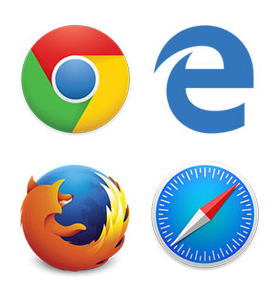
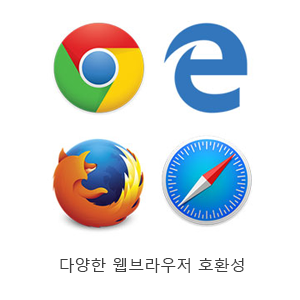
수정

diff --git a/business/ipes.html b/business/ipes.html
@@ -9,27 +9,49 @@ id: ipesback
 ---
 
 <div>
-    <div class="ipes_intro"> 
+    <div class="business-intro"> 
         <h2>불법주정차 주차단속시스템</h2>
         <span></span>
         <p>시장에 다양한 불법 주정차 무인단속시스템 제품이 출시되어 있지만, DK A.N.T의 시스템은 4차 산업의 핵심 키워드인 AI, 빅데이터, 클라우드 가상화를 불법 주정 차량의 효과적인 단속을 위해 상황에 최적화한 기술을 도입하였습니다.</p>
        
     </div>
-    <div class="ipes_content">
-        <div>
-            <img src="../assets/images/dockerlogo.jpg">
-            <h5>머신러닝을 이용한 단속 대상 차량 감지</h5>
-            <p>일반적인 머신러닝 상용모델을 사용한 것이 아니라, 직접 개발한 머신러닝 검지 모델을 이용하여, 불법 주정차 단속 대상을 특정하여  최적의 카메라 움직임으로 단속을 진행합니다.</p>
+    <div class="ipes-content-wrap">
+        <div class="ipes-content">
+            <div class="img-box">
+                <img src="/assets/images/ipes1.png">
+            </div>
+            <div class="text-box">
+                <h5>머신러닝을 이용한 단속 대상 차량 감지</h5>
+                <p>일반적인 머신러닝 상용모델을 사용한 것이 아니라, 직접 개발한 머신러닝 검지 모델을 이용하여, 불법 주정차 단속 대상을 특정하여  최적의 카메라 움직임으로 단속을 진행합니다.</p>
+            </div>
         </div>
-        <div>
-            <h5>스마트 유지관리폼 연동</h5>
-            <p>플랫폼 구동에 필요한 모든 동작을 HTTP Restful API를 이용하여 제어하므로,  앞서 소개한 스마트 유지관리 플랫폼과 통합된 웹 기반 시스템으로 구축하였습니다.</p>
-            <img src="../assets/images/webicon.png">
+        <div class="ipes-content">
+            <div class="text-box pc-text">
+                <h5>스마트 유지관리폼 연동</h5>
+                <p>플랫폼 구동에 필요한 모든 동작을 HTTP Restful API를 이용하여 제어하므로,  앞서 소개한 스마트 유지관리 플랫폼과 통합된 웹 기반 시스템으로 구축하였습니다.</p>
+            </div>
+            <div class="img-box img-fr">
+                <img src="/assets/images/ipes2.png">
+            </div>
+            <div class="text-box mb-text">
+                <h5>스마트 유지관리폼 연동</h5>
+                <p>플랫폼 구동에 필요한 모든 동작을 HTTP Restful API를 이용하여 제어하므로,  앞서 소개한 스마트 유지관리 플랫폼과 통합된 웹 기반 시스템으로 구축하였습니다.</p>
+            </div>
         </div>
-        <div>
-            <img src="../assets/images/dockerlogo.jpg">
-            <h5>가상화를 이용한 서버 자원 최적화</h5>
-            <p>시장에 다양한 불법주정차 무인단속시스템 제품이 출시되어 있지만, DK A.N.T의 시스템은 4차산업의 핵심 키워드인 AI, 빅데이터, 클라우드 가상화를 불법 주정 차량의 효과적인 단속을 위해 상황에 최적화한 기술을 도입하였습니다.</p>
+        <div class="ipes-content">
+            <div class="img-box">
+                <img src="/assets/images/ipes3.png">
+            </div>
+            <div class="text-box">
+                <h5>가상화를 이용한 서버 자원 최적화</h5>
+                <p>시장에 다양한 불법주정차 무인단속시스템 제품이 출시되어 있지만, DK A.N.T의 시스템은 4차산업의 핵심 키워드인 AI, 빅데이터, 클라우드 가상화를 불법 주정 차량의 효과적인 단속을 위해 상황에 최적화한 기술을 도입하였습니다.</p>
+            </div>
         </div>
     </div>
 </div>
+
+<style scoped>
+p{
+    width: 100%;
+}
+</style>

diff --git a/business/traffic.html b/business/traffic.html
@@ -9,26 +9,43 @@ id: trafficback
 ---
 
 <div>
-    <div class="traffic_intro"> 
+    <div class="business-intro"> 
         <h2>지능형 교통관리 소프트웨어</h2>
         <span></span>
         <p>시스템과 네트워크 성능 향상에 힘입어 과거에 비해 교통정보 수집 주기가 짧아지고,  웹브라우저를 통한 교통정보의 표출 방법 또한 발전하였으므로 이에 발맞추어 향상된 웹 기반으로 개발된 교통관리 시스템입니다.</p>
     </div>
-    <div class="traffic_content">
-        <div>
-            <img src="../assets/images/dockerlogo.jpg">
-            <h5>교통전용 대시보드 구성</h5>
-            <p>교통 플러그인을 적용하고, 교통 관리 운영 권한이 있는 사용자로 시스템에 접속할 경우, 교통 관리용 기능들로 메뉴와 화면이 구성됩니다</p>
+    <div class="traffic-content-wrap">
+        <div class="traffic-content">
+            <div class="img-box">
+                <img src="/assets/images/traffic1.png">
+            </div>
+            <div class="text-box">
+                <h5>교통전용 대시보드 구성</h5>
+                <p>교통 플러그인을 적용하고, 교통 관리 운영 권한이 있는 사용자로 시스템에 접속할 경우, 교통 관리용 기능들로 메뉴와 화면이 구성됩니다</p>
+            </div>
         </div>
-        <div>
-            <h5>Vector 방식 도형식 편집기</h5>
-            <p>기존에 비용이 많이 발생하던 도형식 교통 이미지를  ActiveX 없이 html  Vector를 이용하여 구현하였습니다. 이를 통하여 자유롭게 선형을 그리고 편집할 수 있습니다.</p>
-            <img src="../assets/images/webicon.png">
+        <div class="traffic-content">
+            <div class="text-box pc-text">
+                <h5>Vector 방식 도형식 편집기</h5>
+                <p>기존에 비용이 많이 발생하던 도형식 교통 이미지를  ActiveX 없이 html  Vector를 이용하여 구현하였습니다. 이를 통하여 자유롭게 선형을 그리고 편집할 수 있습니다.</p>
+            </div>
+            <div class="img-box img-fr">    
+                <img src="/assets/images/traffic2.png">
+            </div>
+            <div class="text-box mb-text">
+                <h5>Vector 방식 도형식 편집기</h5>
+                <p>기존에 비용이 많이 발생하던 도형식 교통 이미지를  ActiveX 없이 html  Vector를 이용하여 구현하였습니다. 이를 통하여 자유롭게 선형을 그리고 편집할 수 있습니다.</p>
+            </div>
         </div>
-        <div>
-            <img src="../assets/images/dockerlogo.jpg">
-            <h5>빠른 GIS 교통데이터 가공</h5>
-            <p>최적화한 교통 데이터 가공 방법과 GIS 서버를 이용하여 많은 노드 링크도 빠른 속도로 가공하여 표출할 수 있습니다.</p>
+        <div class="traffic-content">
+            <div class="img-box">
+                <img src="/assets/images/traffic3.png">
+            </div>
+            <div class="text-box">     
+                <h5>빠른 GIS 교통데이터 가공</h5>
+                <p>최적화한 교통 데이터 가공 방법과 GIS 서버를 이용하여 많은 노드 링크도 빠른 속도로 가공하여 표출할 수 있습니다.</p>
+            </div>
         </div>
     </div>
 </div>
+

diff --git a/assets/css/dk-style-v2.css b/assets/css/dk-style-v2.css
@@ -14,11 +14,13 @@ body{
 }
 main{
     position: relative;
-    padding-bottom: 126px
 }
 a:hover {
     text-decoration: none !important
   }
+.w100{
+    width: 100%;
+}
 /* * * * * * * header * * * * * * */
 article{ 
   width: 100%;
@@ -193,6 +195,7 @@ section .banner-text h2 + p{
     /* overflow: hidden */
 }
 .busi-header{
+    position: relative;
     height: 450px !important;
     width: 100%;
     background-size: cover
@@ -207,7 +210,7 @@ section .banner-text h2 + p{
     width: 50%;
     position: absolute;
     left: 0;
-    top: 28%;
+    top: 40%;
     color: #fff;
     text-align: center;
 }
@@ -215,6 +218,9 @@ section .banner-text h2 + p{
     float: right;
     width: 50%;
     padding: 2% 1% 0 7% !important;
+}
+.busi-img img{
+    max-width: 100%;
 }
 .cctvback{
     background-image: url(../images/cctvban.png)
@@ -285,6 +291,7 @@ section .banner-text h2 + p{
     margin: 15px 0 50px 0;
     color: #00223e;
 }
+
 
 
 /* * * * * * * * advantage * * * * * * * */
@@ -359,7 +366,7 @@ section .banner-text h2 + p{
 /* * * * * * * * index - post* * * * * * * */
 .post-wrap{
     background-color: #f6f6fe;
-    height: 100%;
+    padding-bottom: 50px;
 }
 #post-list:after {
     display:block;
@@ -499,7 +506,7 @@ section .banner-text h2 + p{
 .more-btn {
     background-color: #3470a8;
     width: 150px;
-    margin: 0 auto 90px auto;
+    margin:auto;
     text-align: center;
 }
 .more-btn a{
@@ -670,7 +677,7 @@ a.tag {
     background-color: #00223e !important;
     text-align: center;
     font-size: 13px;
-    position: absolute;
+    position: relative;
     bottom: 0;
 }
 
@@ -1189,8 +1196,9 @@ border-radius: .25rem;
 
 /** business page **/
 #business-content-wrap {
-  width:1240px;
+  max-width:1240px;
   padding: 10px;
+  margin: 80px 0;
 }
 
 #business-navs {
@@ -1203,6 +1211,104 @@ border-radius: .25rem;
     margin-bottom: -1px;
     color: #001f43;
 }
+@media (max-width: 768px){
+    .nav-tabs .nav-item{
+        width: 100%;
+        text-align: center;
+    }
+    .nav-link.active{
+        width: 50%;
+        margin: auto
+    }
+}
+
+
+.business-intro{
+    margin-bottom: 70px;   
+}
+.business-intro h2{
+    color:#da4859;
+    font-weight: bold
+}
+.business-intro span{
+    border-bottom: 2px solid #00223e;
+    width: 70px;
+    margin: 30px 5px;
+    display: block
+}
+.fclt-content{
+    display: flex;
+    justify-content:space-around
+}
+.business-intro p{
+    color: #08213b
+}
+
+@media (max-width: 916px){
+    .fclt-content{
+        flex-direction: column
+    }
+}
+.fclt-content div{
+    margin: auto
+}
+.ipes-content,
+.traffic-content{
+    display: flex;
+    margin: 70px 0
+}
+.ipes-content div h5,
+.traffic-content div h5{
+    font-weight: bold
+}
+.ipes-content div p,
+.traffic-content div p{
+    color: #595e63
+}
+.img-fr img{
+    float: right
+}
+.img-fr:after{
+    clear: both;
+    display: block;
+    content: ""
+}
+.img-box{
+    width: 45%;
+}
+.text-box{
+    width: 55%;
+    margin: 0 10px
+}
+.img-box img{
+    width: 100%;
+}
+.mb-text{
+    display: none
+}
+@media (max-width: 768px){
+    .ipes-content,
+    .traffic-content{
+        display: block
+    }    
+    .img-box{
+        width: 100%;
+    }
+    .text-box{
+        width: 100%;
+    }
+    .text-box h5{
+        text-align: center;
+        margin: 30px 0 
+    }
+    .pc-text{
+        display: none
+    }
+    .mb-text{
+        display: block !important;
+    }
+}
+
 
 
 

diff --git a/business/fclt.html b/business/fclt.html
@@ -9,24 +9,21 @@ id: fcltback
 ---
 
 <div>
-    <div class="fclt_intro"> 
+    <div class="business-intro"> 
         <h2>스마트 유지관리 플랫폼</h2>
         <span></span>
         <p>공공기관에서 설치되어 있는 모든 시설물(CCTV, 가로등 등 기타 시설물)에 대해 언제 어디서나 휴대하고 다니는 스마트폰을 활용하여 보안 인증을 처리하고, 접속된 시설물 정보를 실시간으로 도킹하여 문제상황에 능동적으로 대처할 수 있도록 접근성과 편리성을 극대화한 스마트 유지관리 시스템을 제공하는 서비스 플랫폼입니다.</p>
         <p>효율적인 시설물 관리를 위해 GIS 기반으로 운영이 되며, 카카오 API와 같은 오픈망 환경의 GIS 시스템과 그 외 특수한 상황을 위한 폐쇄망 GIS 시스템도 제공합니다. </p>
     </div>
-    <div class="fclt_content">
+    <div class="fclt-content">
         <div>
-            <img src="../assets/images/dockerlogo.jpg">
-            <p>리눅스 기반 가상화</p>
+            <img src="/assets/images/dockerlogo.png">
         </div>
         <div>
-            <img src="../assets/images/webicon.png">
-            <p>다양한 웹브라우저 호환성</p>
+            <img src="/assets/images/webicon.png">
         </div>
         <div>
-            <img src="../assets/images/gsicon.png">
-            <p>GS 1등급 인증</p>
+            <img src="/assets/images/gsicon.png">
         </div>
     </div>
 </div>

diff --git a/business/cctv.html b/business/cctv.html
@@ -9,7 +9,7 @@ id: cctvback
 ---
 
 <div>
-    <div class="cctv_intro"> 
+    <div class="business-intro"> 
         <h2>CCTV 통합관제 플랫폼</h2>
         <span></span>
         <p>이기종 통합의 범위를 IP카메라와 엔코더 뿐만 아니라, NVR과 DVR까지 가능하여 진정한 통합모니터링 시스템을 구축할 수 있습니다. 융합보안상황실 구축하기 위한 플랫폼 구조이며, 각종 디바이스는 플러그인 형태로 지원하므로 간단히 설치/유지보수가 가능한 플랫폼입니다.</p>

diff --git a/business/smartcity.html b/business/smartcity.html
@@ -9,7 +9,7 @@ id: smartcity
 ---
 
 <div>
-    <div class="smartcity_intro"> 
+    <div class="business-intro"> 
         <h2>스마트시티 플랫폼</h2>
         <span></span>
         <p>시스템과 네트워크 성능 향상에 힘입어 과거에 비해 교통정보 수집 주기가 짧아지고,  웹브라우저를 통한 교통정보의 표출 방법 또한 발전하였으므로 이에 발맞추어 향상된 웹 기반으로 개발된 교통관리 시스템입니다.</p>

diff --git a/_includes/header.html b/_includes/header.html
@@ -3,7 +3,7 @@
   <header>
     <!-- pc header -->
     <div class="container-fluid header-container d-none d-sm-none d-md-block">
-      <div class="row">
+      <div class="row w100">
         <div class="col-auto header-logo">
           <a href="/"><img src="/assets/images/web_logo_red.png"></a>
         </div>

diff --git a/_includes/sub_header.html b/_includes/sub_header.html
@@ -2,7 +2,7 @@
   <header>
     <!-- pc header -->
     <div class="container-fluid header-container d-none d-sm-none d-md-block">
-      <div class="row">
+      <div class="row w100">
         <div class="col-auto header-logo">
           <a href="/"><img src="/assets/images/web_logo_red.png"></a>
         </div>
